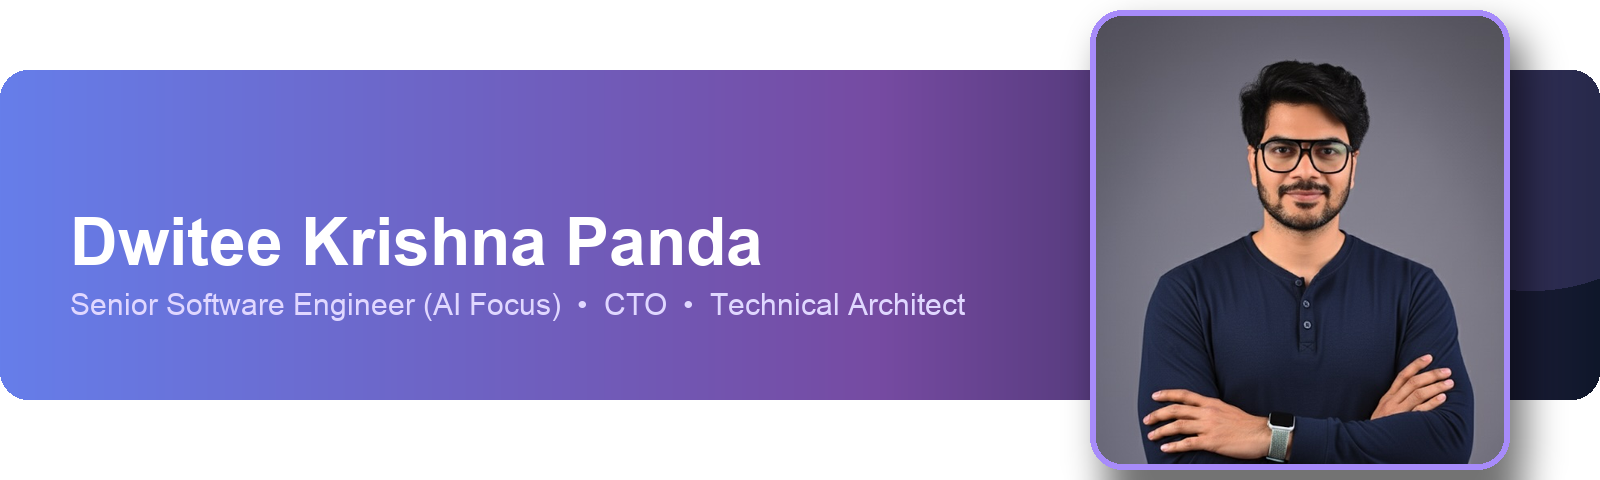
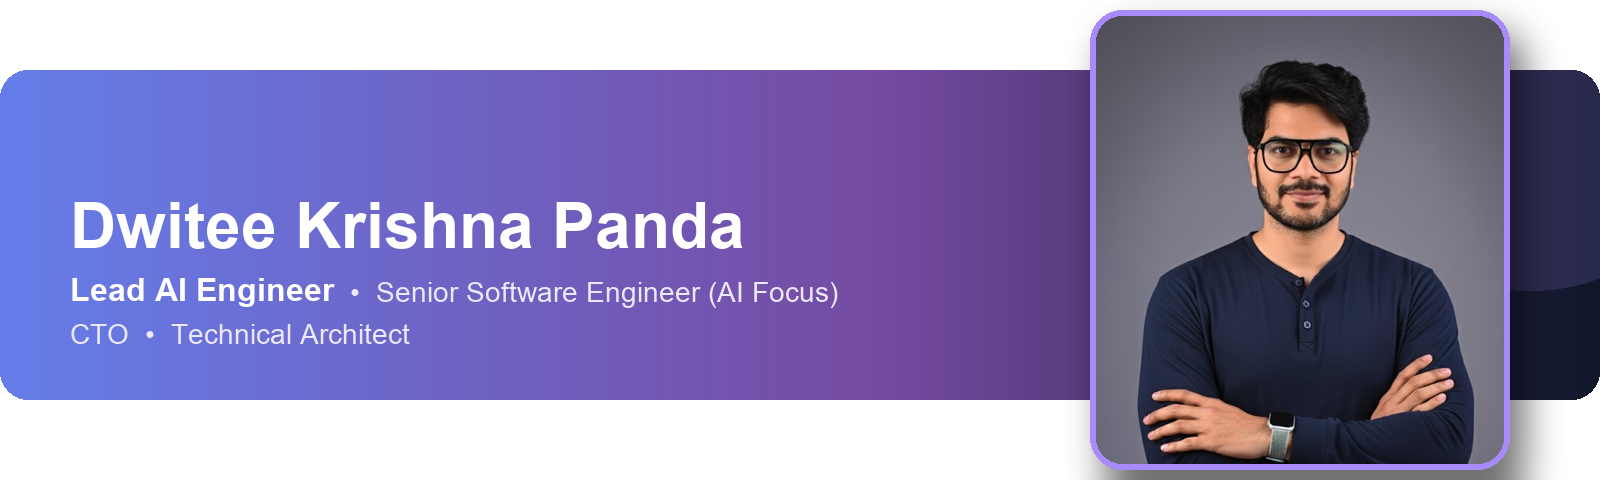
added pfizer exp

Changed region(s): [[0.0312, 0.4062, 0.625, 0.7188]]

diff --git a/README.md b/README.md
@@ -17,13 +17,13 @@ Here are some ideas to get you started:
 <div align="center">
 
 <a href="https://www.dwitee.co.uk/">
-  <img src="hero-banner.png" width="100%" alt="Dwitee Krishna Panda — Senior Software Engineer (AI Focus), CTO, Technical Architect"/>
+  <img src="hero-banner.png" width="100%" alt="Dwitee Krishna Panda — Lead AI Engineer, Senior Software Engineer (AI Focus), CTO, Technical Architect"/>
 </a>
 
 <br/>
 
 <a href="https://www.dwitee.co.uk/">
-  <img src="https://readme-typing-svg.demolab.com?font=Fira+Code&weight=600&size=22&pause=1000&color=A78BFA&center=true&vCenter=true&width=820&lines=Building+Agentic+AI+%26+LLM+Systems+at+Scale;LangGraph+%7C+RAG+%7C+Multi-Agent+Orchestration;19%2B+Years+%E2%80%A2+25%2B+Products+Shipped+%E2%80%A2+2x+Hackathon+Winner;Ex-Flipkart+%7C+Ex-EA+Games+%7C+King's+College+London" alt="Typing SVG" />
+  <img src="https://readme-typing-svg.demolab.com?font=Fira+Code&weight=600&size=22&pause=1000&color=A78BFA&center=true&vCenter=true&width=820&lines=Building+Agentic+AI+%26+LLM+Systems+at+Scale;LangGraph+%7C+RAG+%7C+Multi-Agent+Orchestration;20%2B+Years+%E2%80%A2+25%2B+Products+Shipped+%E2%80%A2+2x+Hackathon+Winner;Ex-Flipkart+%7C+Ex-EA+Games+%7C+King's+College+London" alt="Typing SVG" />
 </a>
 
 <br/>
@@ -41,15 +41,17 @@ Here are some ideas to get you started:
 
 ## About Me
 
-With nearly two decades of engineering experience across **Big Tech, gaming, enterprise platforms, and AI-first startups**, I design and ship scalable backend systems, secure cloud-native architectures, and production-grade AI solutions — spanning backend system design, microservices (Python/FastAPI, Java/Spring Boot), API engineering, distributed systems, and agentic/multimodal AI applications.
+With over two decades of engineering experience across **Big Tech, gaming, enterprise platforms, and AI-first startups**, I design and ship scalable backend systems, secure cloud-native architectures, and production-grade AI solutions — spanning backend system design, microservices (Python/FastAPI, Java/Spring Boot), API engineering, distributed systems, and agentic/multimodal AI applications.
 
-From architecting **India's first large-scale e-commerce gamezone platform at Flipkart**, to building game platforms at **MechMocha** and shipping gameplay code at **EA Games**, to advancing AI accessibility research at **King's College London** — I blend enterprise-grade engineering discipline with rapid innovation.
+From architecting **India's first large-scale e-commerce gamezone platform at [Flipkart](https://www.flipkart.com/)**, to building game platforms at **MechMocha** and shipping gameplay code at **[EA Games](https://www.ea.com/)**, to advancing AI accessibility research at **[King's College London](https://www.kcl.ac.uk/)** — I blend enterprise-grade engineering discipline with rapid innovation.
 
-**Currently @ [Areeva.ai](https://areeva.ai)** — building AI/ML-driven conversational platforms that enable autonomous AI agents to run real-time voice/video interactions, deployed at scale on AWS (EKS, ECR, Karpenter) with a focus on productionising LLM systems through CI/CD, monitoring, and model evaluation.
+**Currently @ [Pfizer](https://www.pfizer.com/) as Lead AI Engineer** — building production agentic AI systems. I design multi-agent applications that turn plain-English questions into validated SQL over cloud data warehouses and return summaries, interactive charts, and insights. My work spans LLM orchestration, prompt engineering, streaming full-stack apps, asynchronous job processing, observability, and cloud-native deployment.
+
+**Previously @ [Areeva.ai](https://areeva.ai/)** — built AI/ML-driven conversational platforms that let autonomous AI agents run real-time voice/video interactions, deployed at scale on AWS (EKS, ECR, Karpenter) with CI/CD, monitoring, and model evaluation.
 
 <div align="center">
 
-|  🕒 19+ Years  |  🚀 25+ Products Shipped  |  🏆 2× Hackathon Winner  |  🎤 10+ Talks / Workshops  |
+|  🕒 20+ Years  |  🚀 25+ Products Shipped  |  🏆 2× Hackathon Winner  |  🎤 10+ Talks / Workshops  |
 |:---:|:---:|:---:|:---:|
 
 </div>
@@ -76,6 +78,8 @@ From architecting **India's first large-scale e-commerce gamezone platform at Fl
 ![LangGraph](https://img.shields.io/badge/LangGraph-1C3C3C?style=flat-square&logo=langchain&logoColor=white)
 ![OpenAI](https://img.shields.io/badge/LLM%20%2F%20RAG-412991?style=flat-square&logo=openai&logoColor=white)
 ![Vertex AI](https://img.shields.io/badge/Vertex%20AI-4285F4?style=flat-square&logo=googlecloud&logoColor=white)
+![LangChain](https://img.shields.io/badge/LangChain-1C3C3C?style=flat-square&logo=langchain&logoColor=white)
+![Langfuse](https://img.shields.io/badge/Langfuse-0A0A0A?style=flat-square&logoColor=white)
 
 **Cloud & Infra**
 
@@ -84,6 +88,7 @@ From architecting **India's first large-scale e-commerce gamezone platform at Fl
 ![Kubernetes](https://img.shields.io/badge/Kubernetes-326CE5?style=flat-square&logo=kubernetes&logoColor=white)
 ![Docker](https://img.shields.io/badge/Docker-2496ED?style=flat-square&logo=docker&logoColor=white)
 ![Kafka](https://img.shields.io/badge/Kafka-231F20?style=flat-square&logo=apachekafka&logoColor=white)
+![GitHub Actions](https://img.shields.io/badge/GitHub%20Actions-2088FF?style=flat-square&logo=githubactions&logoColor=white)
 
 **Data & Frameworks**
 
@@ -92,6 +97,7 @@ From architecting **India's first large-scale e-commerce gamezone platform at Fl
 ![MongoDB](https://img.shields.io/badge/MongoDB-47A248?style=flat-square&logo=mongodb&logoColor=white)
 ![PostgreSQL](https://img.shields.io/badge/PostgreSQL-4169E1?style=flat-square&logo=postgresql&logoColor=white)
 ![Redis](https://img.shields.io/badge/Redis-DC382D?style=flat-square&logo=redis&logoColor=white)
+![Dramatiq](https://img.shields.io/badge/Dramatiq-2C3E50?style=flat-square&logoColor=white)
 ![Unity](https://img.shields.io/badge/Unity3D-000000?style=flat-square&logo=unity&logoColor=white)
 
 </div>
@@ -119,7 +125,7 @@ Accessibility tool (BBC R&D, CA11y) converting video into subtitles, simplified 
 **[HelloPlay / Flipkart GameZone](https://play.google.com/store/apps/details?id=com.flipkart.android&hl=en_IN)**
 Kafka + K8s microservices
 
-Presence, matchmaking, leaderboards & rewards infrastructure integrated into the Flipkart app.
+Presence, matchmaking, leaderboards & rewards infrastructure integrated into the [Flipkart](https://www.flipkart.com/) app.
 
 `Java` `Golang` `Kafka` `Kubernetes` `MongoDB` `Redis`
 
@@ -145,43 +151,53 @@ DistilBERT-based NER pipeline surfacing early health indicators from text.
 
 ## 💼 Experience Highlights
 
-```text
-2025 – Present   Lead Product Engineer (AI Focus) · Areeva.ai
+<pre>
+2026 – Present   Lead AI Engineer · <a href="https://www.pfizer.com/">Pfizer</a>
+                 Production agentic AI system: text-to-SQL → charts → insights
+                 Hierarchical multi-agent LLM orchestration (LangGraph/LangChain)
+                 Validated SQL pipeline: skill files + query patterns + auto-retry
+                 Azure OpenAI GPT + AWS Bedrock Claude, config-driven model choice
+                 "AI never invents values" enforced in prompts and UI
+                 Streaming React/TypeScript chat over SSE + Redis Streams
+                 Dramatiq + Redis workers: queues, timeouts, dead-letter handling
+                 Langfuse observability · Snowflake · AWS · Kubernetes · Terraform
+
+2025 – 2026      Lead Product Engineer (AI Focus) · <a href="https://areeva.ai/">Areeva.ai</a>
                  Agentic AI platform for real-time voice/video AI interviews
                  LiveKit Voice Agents on AWS EKS · Karpenter autoscaling
 
-2025 – 2026      CTO · Skeptiq
+2025 – 2026      CTO · <a href="https://skeptiq.ai/">Skeptiq</a>
                  GenAI architecture · LangGraph/RAG pipelines · Google ADK
                  multi-agent orchestration on GCP (Vertex AI, Cloud Run)
 
-2024 – 2025      MSc Research · King's College London
+2024 – 2025      MSc Research · <a href="https://www.kcl.ac.uk/">King's College London</a>
                  End-to-end GenAI pipeline (Whisper + T5/Gemini/Mistral)
-                 Published: "ReMindMap" — AI accessibility research w/ BBC R&D
+                 Published: "ReMindMap" — AI accessibility research w/ BBC R&amp;D
 
 2023 – 2024      Technical Architect · Freelance
                  GenAI pipelines · PyTorch/HuggingFace · multimodal LLMs
 
-2020 – 2022      SDE III, GameZone · Flipkart
+2020 – 2022      SDE III, GameZone · <a href="https://www.flipkart.com/">Flipkart</a>
                  Java/Spring Boot + Golang backend · Kafka · leaderboards
 
 2017 – 2020      Lead Product Engineer → Tech Architect · MechMocha
                  Game servers @ scale · Jetpack Joyride India · Series B
 
-2011 – 2014      Senior Software Engineer · Electronic Arts
+2011 – 2014      Senior Software Engineer · <a href="https://www.ea.com/">Electronic Arts</a>
                  Gameplay engineering — Sims 3, Boggle 3D, Monopoly Bingo
-```
+</pre>
 
 <div align="center">
-<sub>19+ years across Boeing×Infosys, Geometric, EA Games, Jumpstart, IKA, MechMocha, Flipkart, freelance, Skeptiq & Areeva.ai — <a href="https://www.dwitee.co.uk/#experience">full timeline on my portfolio →</a></sub>
+<sub>20+ years across Boeing×Infosys, Geometric, <a href="https://www.ea.com/">EA Games</a>, Jumpstart, IKA, MechMocha, <a href="https://www.flipkart.com/">Flipkart</a>, freelance, <a href="https://skeptiq.ai/">Skeptiq</a> & <a href="https://areeva.ai/">Areeva.ai</a> — <a href="https://www.dwitee.co.uk/#experience">full timeline on my portfolio →</a></sub>
 </div>
 
 <br/>
 
 ## 🎓 Academia & Research
 
-- **MSc, Advanced Software Engineering** — King's College London (2024–2025)
+- **MSc, Advanced Software Engineering** — [King's College London](https://www.kcl.ac.uk/) (2024–2025)
 - **BEng, Mechanical Engineering** — VSSUT Burla (2001–2005)
-- 📄 **Published:** [ReMindMap: AI-Assisted Comprehension via Mind-Map Abstraction for Accessibility](https://www.dwitee.co.uk/research/DwiteeKrishnaPanda_K24112349_TimothyNeate_FinalReport_2024-25.pdf) — *w/ Timothy Neate, King's College London × BBC R&D (CA11y), 2025*
+- 📄 **Published:** [ReMindMap: AI-Assisted Comprehension via Mind-Map Abstraction for Accessibility](https://www.dwitee.co.uk/research/DwiteeKrishnaPanda_K24112349_TimothyNeate_FinalReport_2024-25.pdf) — *w/ Timothy Neate, [King's College London](https://www.kcl.ac.uk/) × BBC R&D (CA11y), 2025*
 
 <br/>
 
